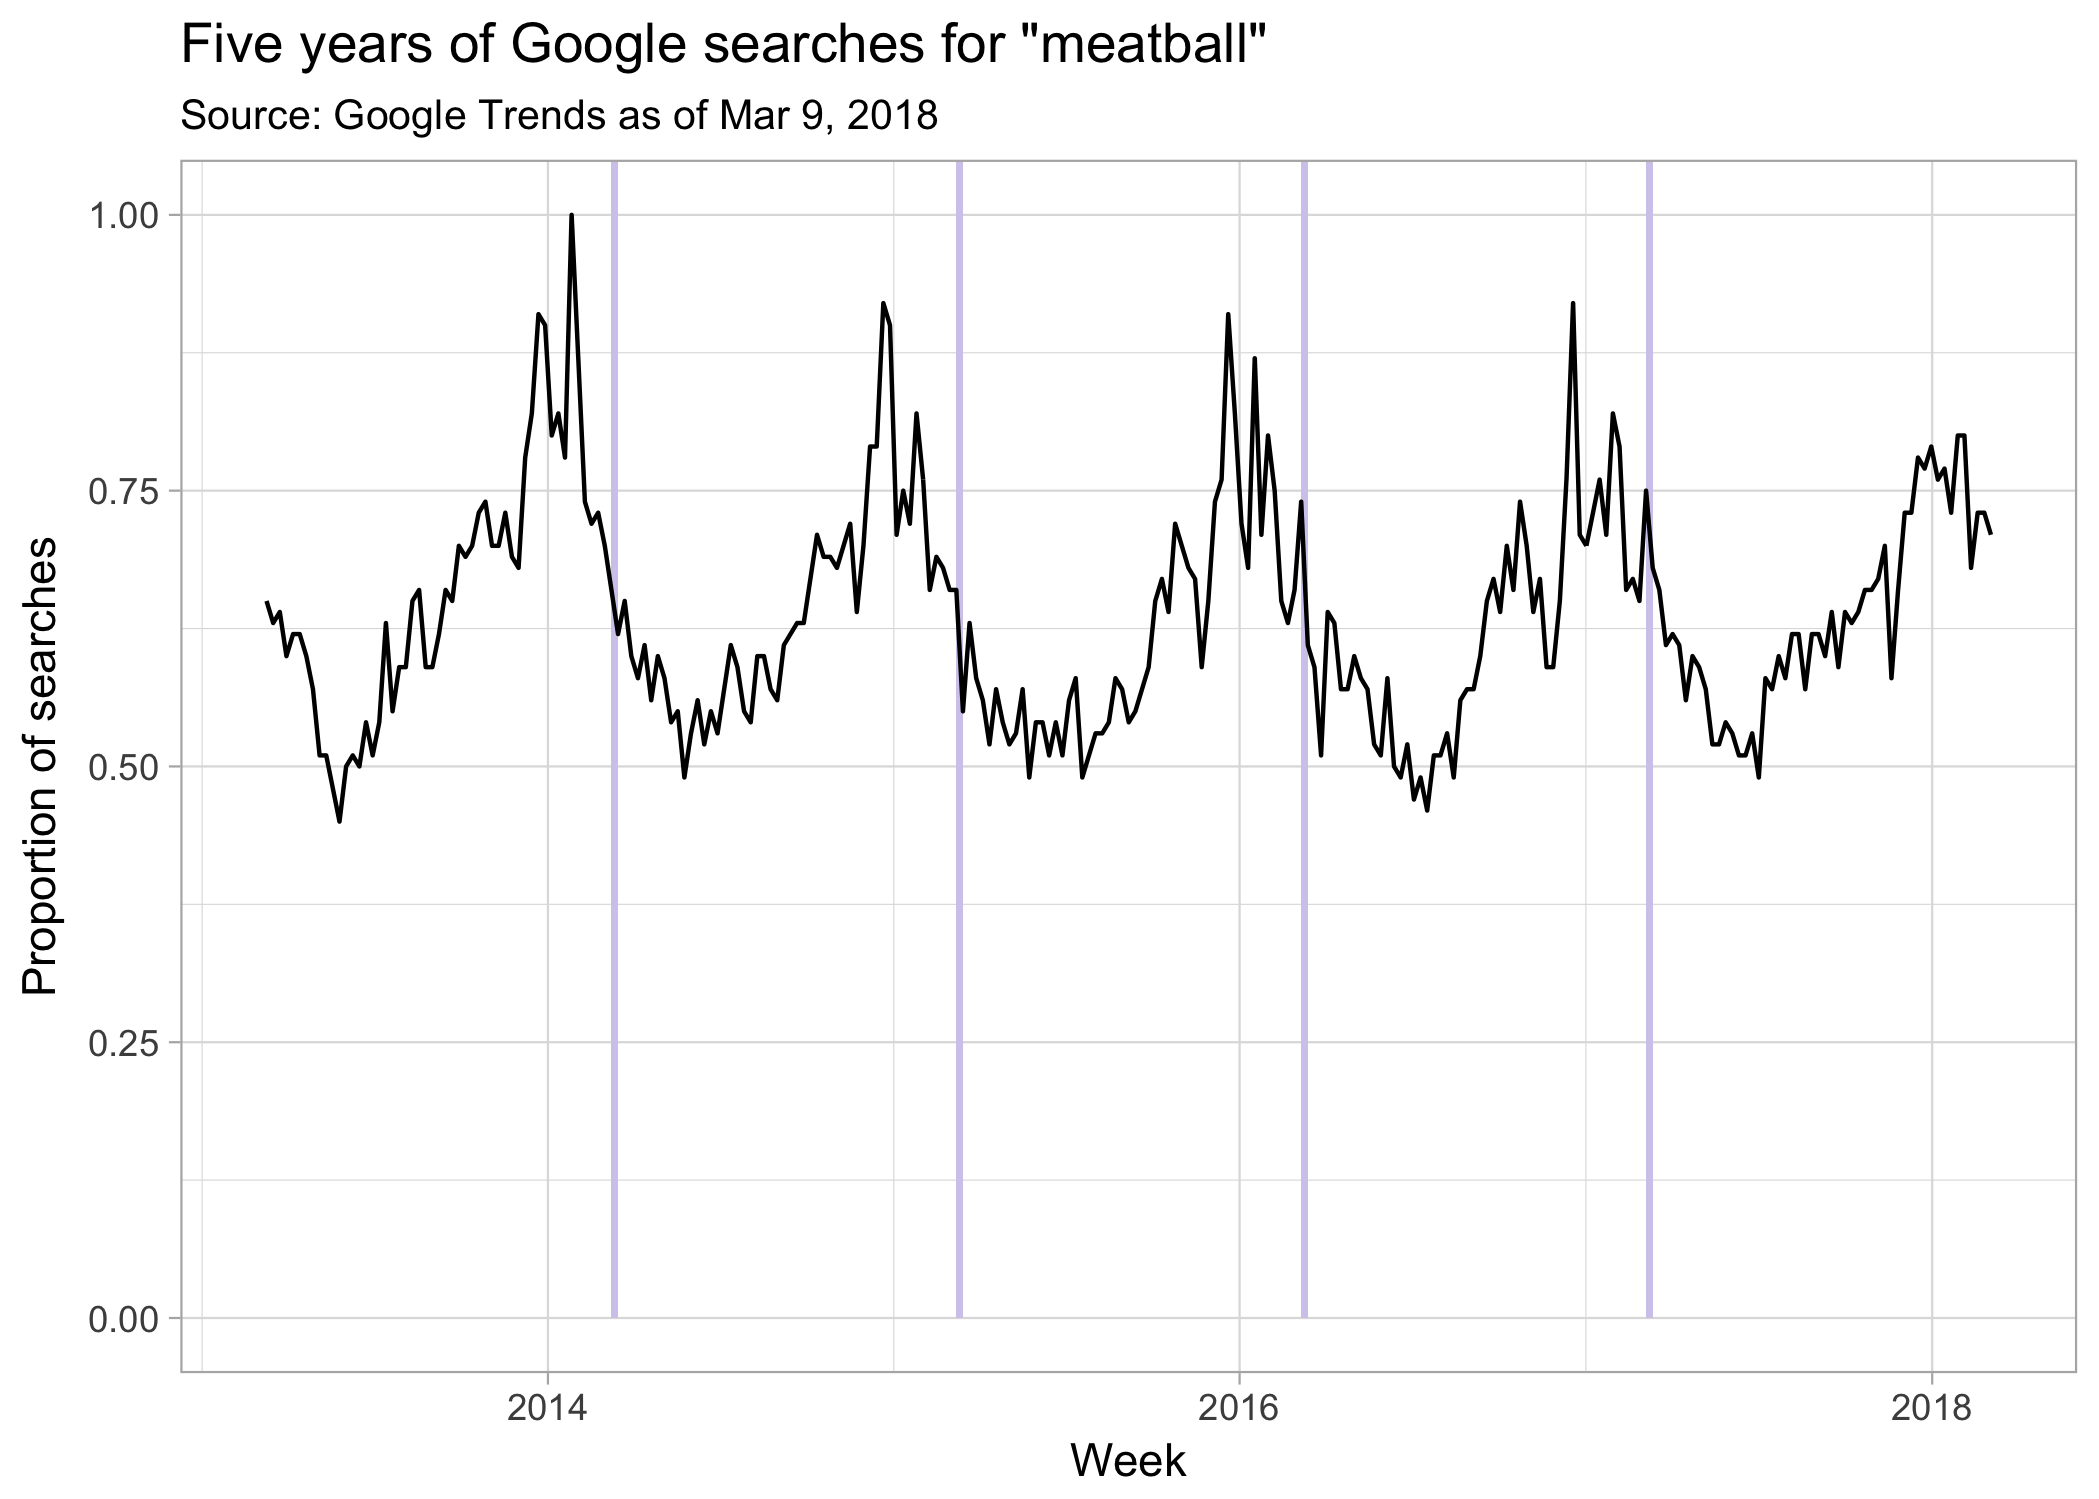
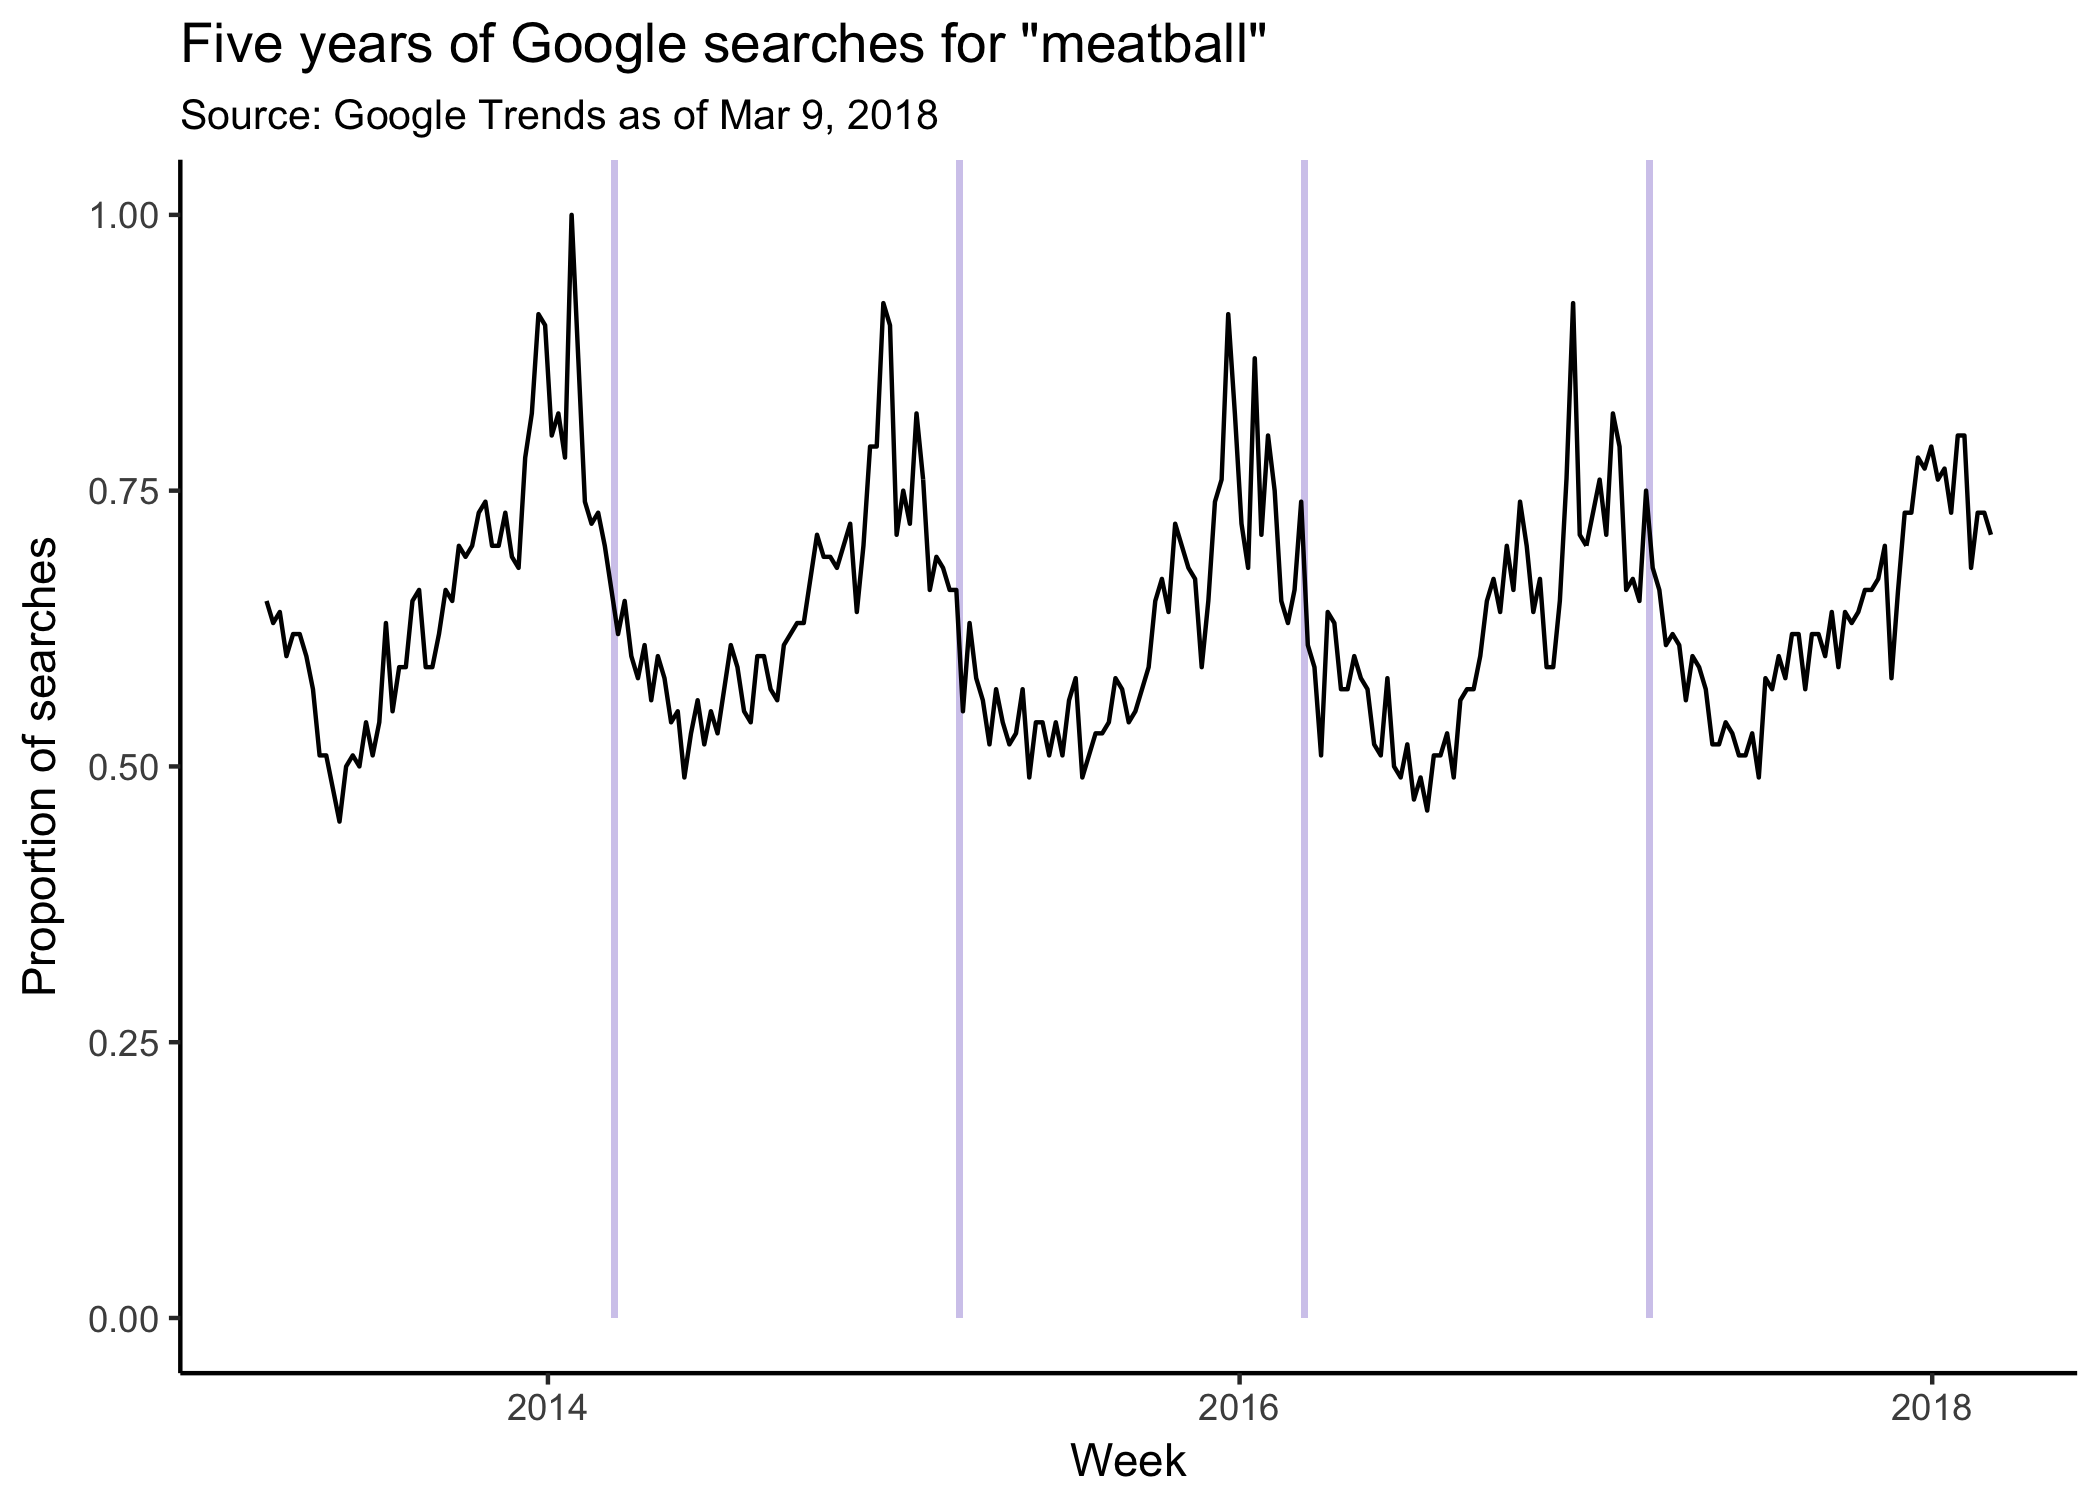
improves the markdown

Changed region(s): [[0.0929, 0.8899, 0.9909, 0.9206], [0.0619, 0.8592, 0.0929, 0.8899]]

diff --git a/README.md b/README.md
@@ -28,12 +28,14 @@ plot <- mb %>%
   geom_rect(fill=herokuLight, aes(ymin=0, ymax=Inf, xmin=ymd("2017-03-05"), xmax=ymd("2017-03-12"))) +
   
   geom_line(stat="identity") +
-  theme_light() +
   scale_y_continuous() + 
   labs(title="Five years of Google searches for \"meatball\"",
        subtitle = "Source: Google Trends as of Mar 9, 2018",
        y="Proportion of searches",
-       x="Week")
+       x="Week") +
+  theme_bw() + 
+  theme(panel.border = element_blank(), panel.grid.major = element_blank(),
+        panel.grid.minor = element_blank(), axis.line = element_line(colour = "black"))
 print(plot)
 ```
 

diff --git a/meatball.md b/meatball.md
@@ -28,12 +28,14 @@ plot <- mb %>%
   geom_rect(fill=herokuLight, aes(ymin=0, ymax=Inf, xmin=ymd("2017-03-05"), xmax=ymd("2017-03-12"))) +
   
   geom_line(stat="identity") +
-  theme_light() +
   scale_y_continuous() + 
   labs(title="Five years of Google searches for \"meatball\"",
        subtitle = "Source: Google Trends as of Mar 9, 2018",
        y="Proportion of searches",
-       x="Week")
+       x="Week") +
+  theme_bw() + 
+  theme(panel.border = element_blank(), panel.grid.major = element_blank(),
+        panel.grid.minor = element_blank(), axis.line = element_line(colour = "black"))
 print(plot)
 ```
 
